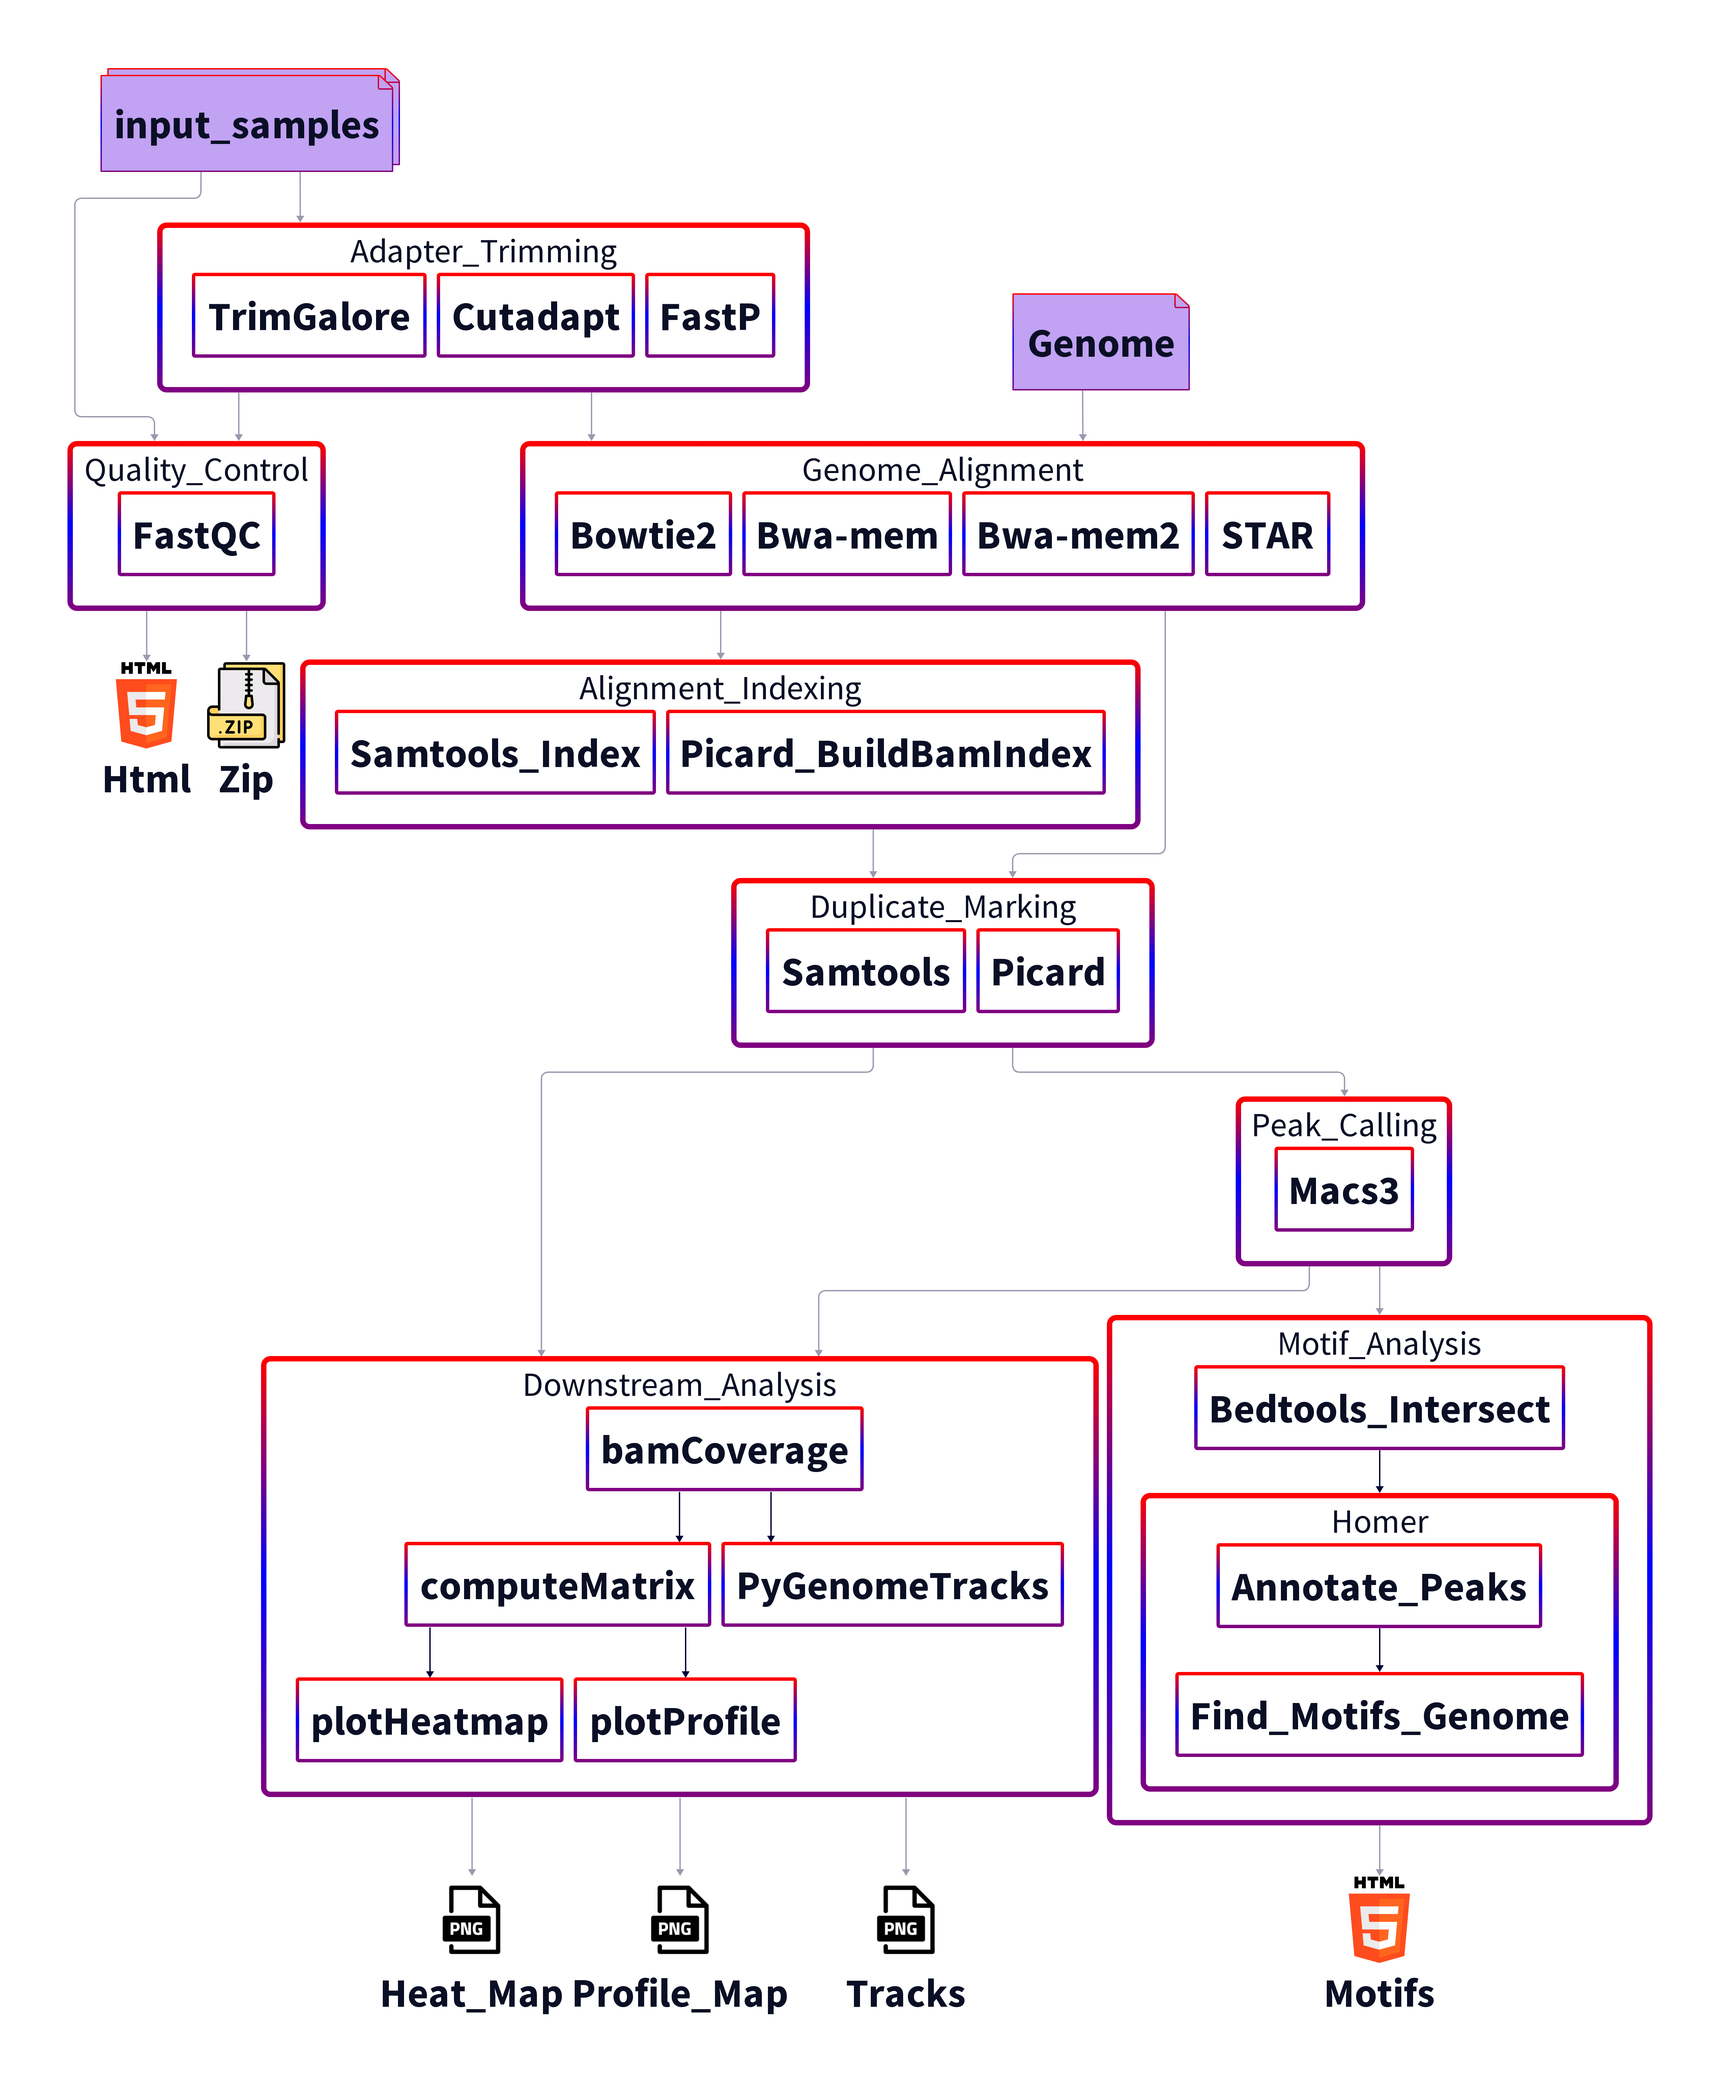
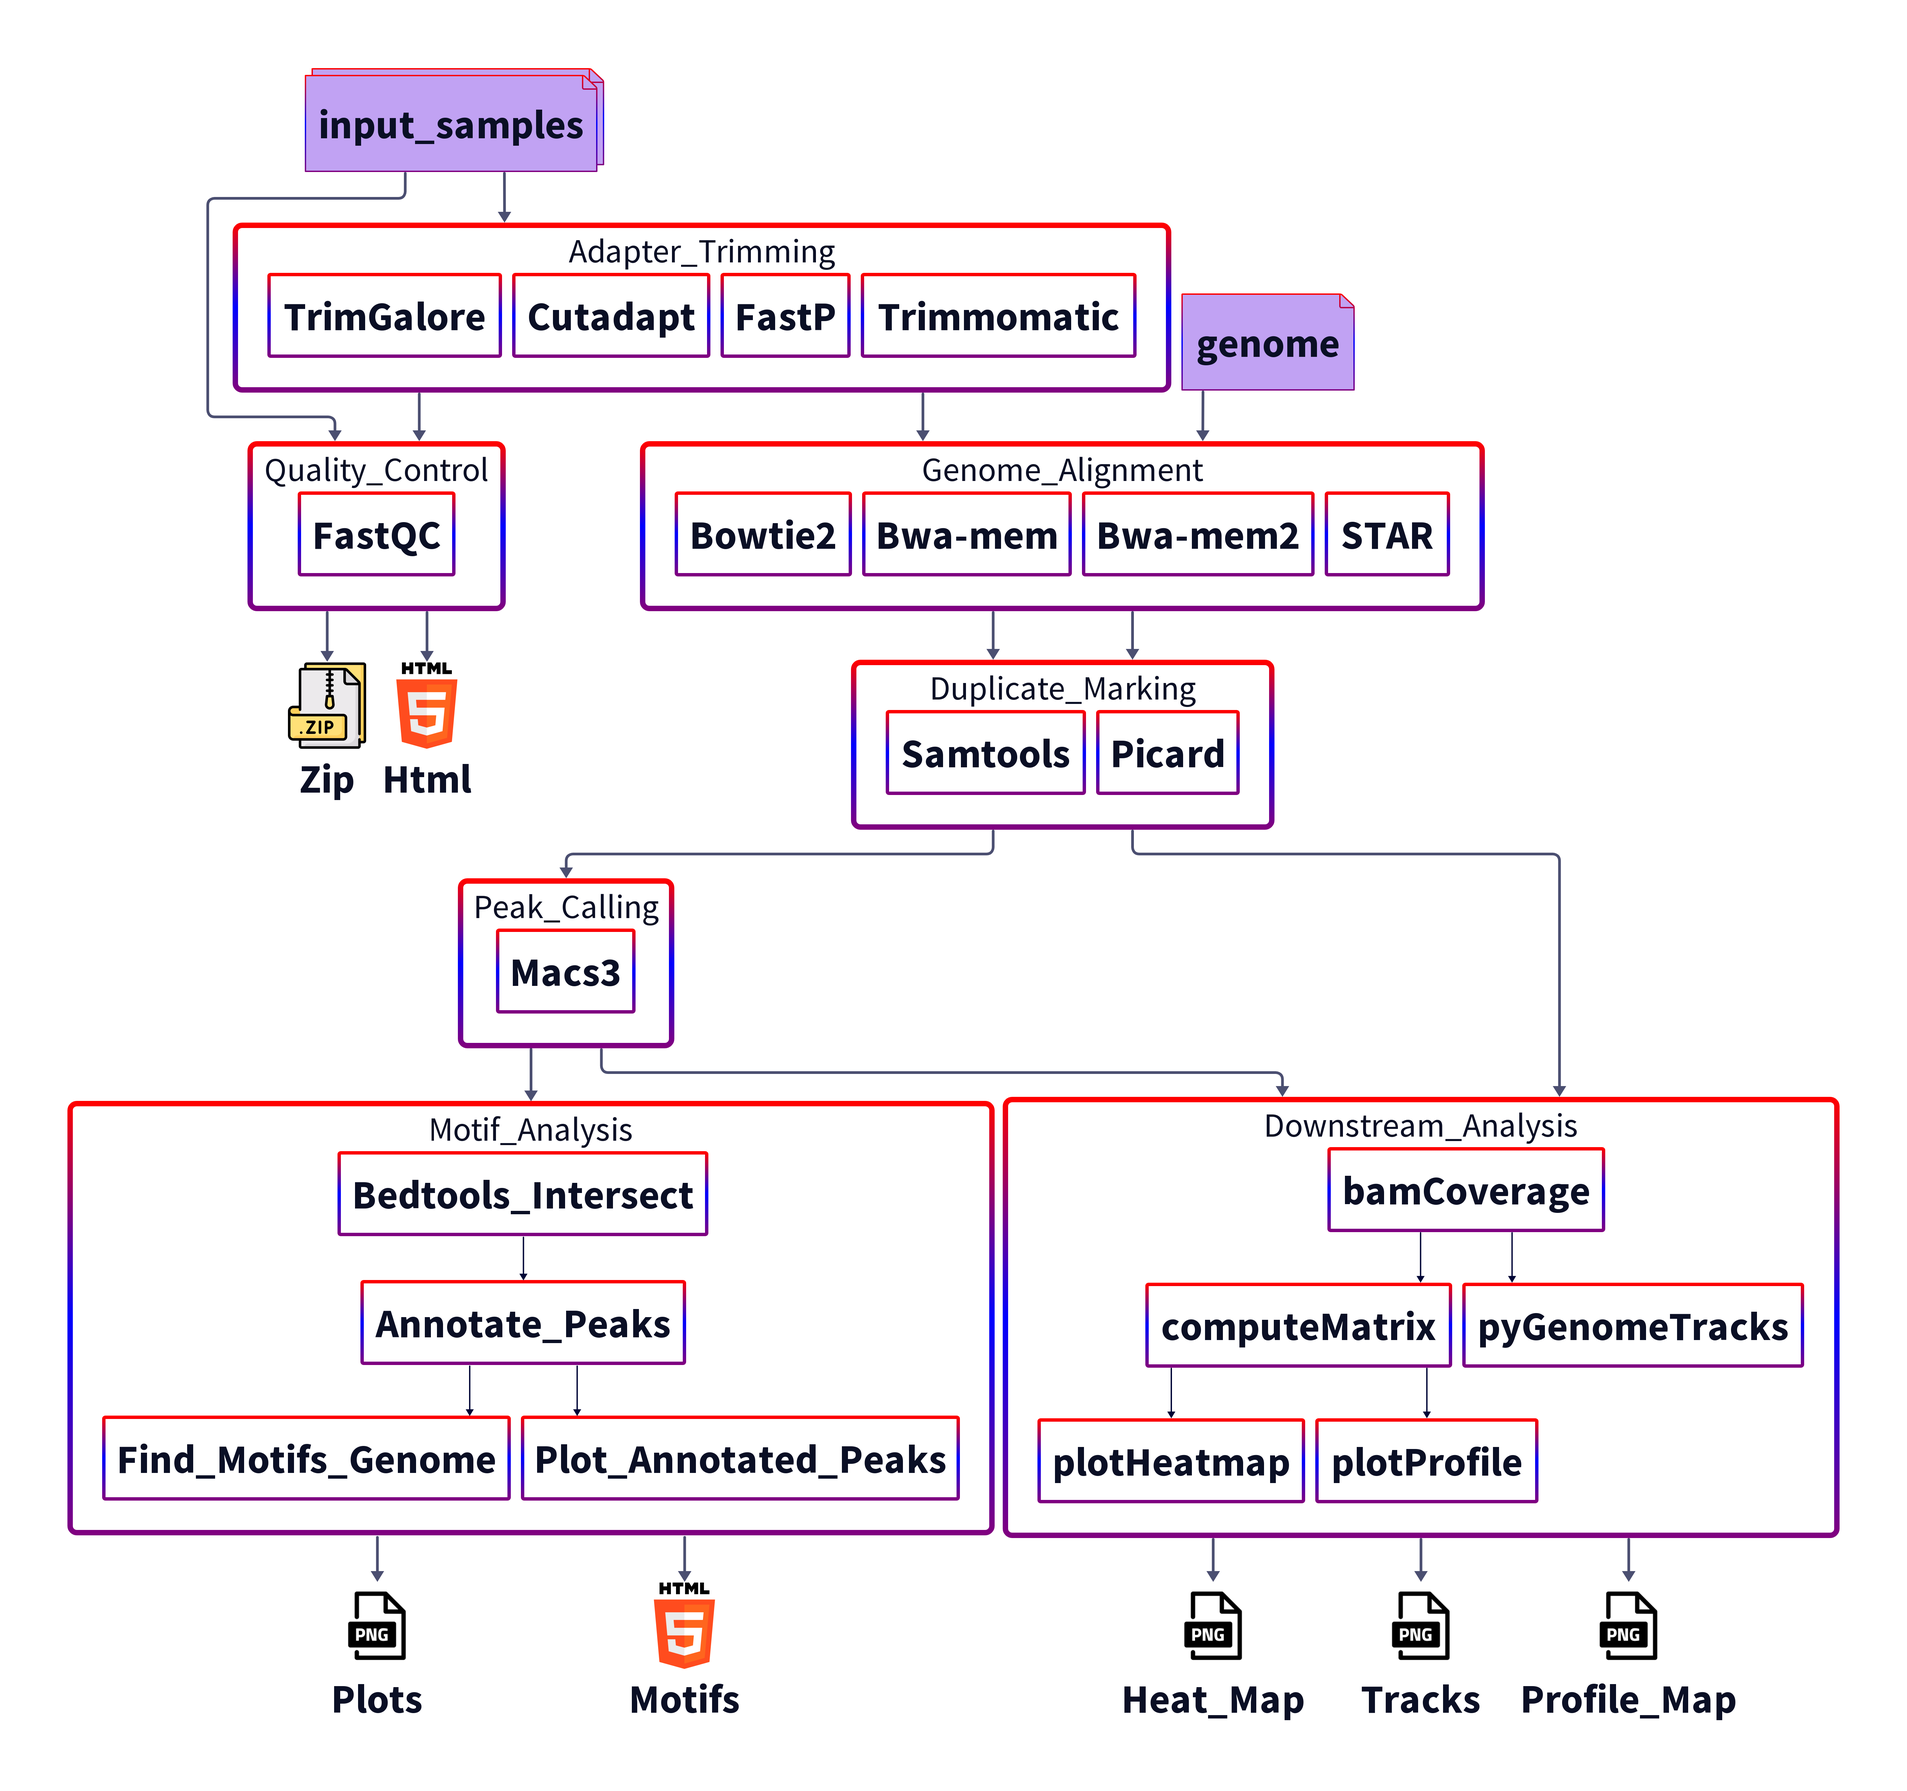
Updated docs

Changed region(s): [[0.0312, 0.4661, 0.9665, 0.9633], [0.0312, 0.0311, 0.8106, 0.5282], [0.4988, 0.9011, 0.5612, 0.9633]]

diff --git a/README.md b/README.md
@@ -2,28 +2,29 @@
 
 Snakemake reproducible and extensible chromatin immunoprecipitation sequencing data analysis pipeline.
 
-<img alt="pipeline flowchart" src="docs/images/flow.png" width="450" height="550">
+<img alt="pipeline flowchart" src="docs/images/flow.png" width="550" height="550">
 
 
 # Usage
 
+The recommended method to run the pipeline is with Conda. 
+
+Alternatively, it possible to run the pipeline using Apptainer/Singularity containers.
+
+
 ## Conda
 
-Installation of conda and snakemake is required to run the pipeline. 
-
-Install conda by following the instructions provided by the official conda [documentation](https://docs.conda.io/projects/conda/en/stable/user-guide/install/index.html)
+Install conda by following the instructions provided by the official conda [documentation](https://docs.conda.io/projects/conda/en/stable/user-guide/install/index.html).
 
 Then install the environment by running:
 
-`conda evn create --file environment.yml -p <path>`
+`conda evn create --file environment.yml`
 
-or: 
-
-`conda evn create --file environment.yml -n pipeline`
-
-Activate the environment and start using the pipeline by running inside the git repository:
+Activate the environment and start using the pipeline:
 
 `snakemake -c <num_cores> -C <config_options>`
+
+For documentation of config_options, please refer to the [docs](docs/conf.md)
 
 ## Apptainer/Singularity
 
@@ -37,11 +38,11 @@ Snakemake together conda is available for use in the container.
 
 Run the pipeline by running the following commands inside the git repository:
 
-`./container.sif -c <num_cores> -j <num_jobs> -C <config_options>`
+`./container.sif -c <num_cores> -C <config_options>`
 
-or more explicitly
+or more explicitly:
 
-`apptainer exec container.sif snakemake -c <num_cores> -j <num_jobs> -C <config_options>`
+`apptainer exec container.sif snakemake -c <num_cores> -C <config_options>`
 
 N.B. remember to bind the working directory if it is outside the home directory.
 
@@ -52,89 +53,29 @@ If conda is available on your HPC create the environment and run:
 
 `snakemake --jobs <num> --profile profiles/slurm`
 
-If conda is not available use containers.
+If conda is not available, use containers.
 
 Pull the container from Dockerhub using Apptainer/Singularity.
 
-Because compute nodes can have limited access to the internet, provide the samples and genome as local files.
-
 Install conda packages before submitting jobs to compute nodes by running:
 
-`apptainer exec <container_name> snakemake --use-conda --conda-create-envs-only`
+`apptainer exec <container_name> snakemake --conda-create-envs-only`
 
 Then you can submit the pipeline to the workload manager, e.g. using Slurm
 
 `srun --nodes <num_nodes>... apptainer run <container_name> ...`
 
-## Specify samples 
+Or edit and submit the provided Slurm [script](slurm.sh):
 
-
-<table>
-    <th>Column</th>
-    <th>Description</th>
-    <th>Required</th>
-    <th>Valid Values</th>
-    <tr>
-        <td>Mark</td>
-        <td>Identifier for transcription factor or histone mark for treatment file.</td>
-        <td>Yes, only for treatment samples. Leave blank for control samples.</td>
-        <td>String</td>
-    </tr>
-    <tr>
-        <td>Sample</td>
-        <td>The biological sample or condition the sequences were derived from.</td>
-        <td>Yes, used for associating samples with corresponding sample origin.</td>
-        <td>String</td>
-    </tr>
-    <tr>
-        <td>Type</td>
-        <td>Specifies whether the sample is treatment or control.</td> 
-        <td>Yes</td>
-        <td>treatment/control</td>
-    </tr>
-    <tr>
-        <td>Peak_type</td>
-        <td>Must be narrow/broad, decides if the peak caller will treat the sample as narrow or broad peaks.</td>
-        <td>Yes, for treatment files. Can be omitted for control files.</td>
-        <td>narrow/broad</td>
-    </tr>
-    <tr>
-        <td>Accession</td>
-        <td>GEO accession number for publicly available samples, used to download the sample from GEO if a local file path is not specified. If file_path is specified, this column serves as a prefix for the filename.</td>
-        <td>Yes; if file_path is not defined.</td>
-        <td>String</td>
-    </tr>    
-    <tr>
-        <td>Genome</td>
-        <td>The genome that the sample will the aligned to. Samples will also be separated by the genome they are aligned to.</td>
-        <td>Yes</td>
-        <td>Genome identifier or path to a FASTA or gzipped FASTA file named after the identifier. Example; hg19 or path/to/genome/hg19.fa.gz</td>
-    </tr>
-    <tr>
-        <td>File_path</td>
-        <td>Paths to the reads sample reads. If paired_end is set to true, then two paths must be defined in the column by separating them with ";" character. Files without file_path specified will try </td>
-        <td>No, if not specified the pipeline will try to download the sample based on the GEO accession.</td>
-        <td>If paired_end is false; path/to/read.fq.gz. If paired_end is true: path/to/read1.fq.gz;path/to/read2.fq.gz </td>
-    </tr>
-        
-
-</table>
-
+`sbatch slurm.sh`
 
 ## Editing Config 
 
 Refer to the [configuration documentaion](docs/conf.md).
 
-## Module Options
+### Preparing Sample Data
 
-Overwrite the default configuration by running:
+Before running the pipeline, the sample sheet needs be prepared, which defines the input data. 
 
-`snakemake -c <num> <rule> --config modules="--flag1 <value1> -f <value2>"`
-
-## Flags
-
-**-t** or **--trim** overwrites the trimmer
-
-**-a** or **--align** overwrites the aligner
-
+For editing the sample sheet refer to the [sample sheet docs](docs/sample_sheet.md).
 

diff --git a/docs/sample_sheet.md b/docs/sample_sheet.md
@@ -1,0 +1,71 @@
+
+# Specify samples 
+
+The pipeline requires a sample sheet (defaulting to config/samples.csv) to define the input data and metadata for each sample. This file should be in CSV format and include specific columns as detailed below.
+
+<table>
+    <th>Column</th>
+    <th>Description</th>
+    <th>Required</th>
+    <th>Valid Values</th>
+    <tr>
+        <td>Mark</td>
+        <td>Identifier for transcription factor or histone mark for treatment file.</td>
+        <td>Yes, only for treatment samples. Leave blank for control samples.</td>
+        <td>String</td>
+    </tr>
+    <tr>
+        <td>Sample</td>
+        <td>The biological sample or condition the sequences were derived from.</td>
+        <td>Yes, used for associating samples with corresponding sample origin.</td>
+        <td>String</td>
+    </tr>
+    <tr>
+        <td>Type</td>
+        <td>Specifies whether the sample is treatment or control.</td> 
+        <td>Yes</td>
+        <td>treatment/control</td>
+    </tr>
+    <tr>
+        <td>Peak_type</td>
+        <td>Must be narrow/broad, decides if the peak caller will treat the sample as narrow or broad peaks.</td>
+        <td>Yes, for treatment files. Can be omitted for control files.</td>
+        <td>narrow/broad</td>
+    </tr>
+    <tr>
+        <td>Accession</td>
+        <td>GEO accession number for publicly available samples, used to download the sample from GEO if a local file path is not specified. If file_path is specified, this column serves as a prefix for the filename.</td>
+        <td>Yes; if file_path is not defined.</td>
+        <td>String</td>
+    </tr>    
+    <tr>
+        <td>Genome</td>
+        <td>The genome that the sample will the aligned to. Samples will also be separated by the genome they are aligned to.</td>
+        <td>Yes</td>
+        <td>Genome identifier or path to a FASTA or gzipped FASTA file named after the identifier. Example; hg19 or path/to/genome/hg19.fa.gz</td>
+    </tr>
+    <tr>
+        <td>File_path</td>
+        <td>Paths to the reads sample reads. If paired_end is set to true, then two paths must be defined in the column by separating them with ";" character. Files without file_path specified will try </td>
+        <td>No, if not specified the pipeline will try to download the sample based on the GEO accession.</td>
+        <td>If paired_end is false; path/to/read.fq.gz. If paired_end is true: path/to/read1.fq.gz;path/to/read2.fq.gz </td>
+    </tr>
+        
+</table>
+
+
+## Example sheet
+
+An example sheet showing the possibilities:
+
+```csv
+type,peak_type,replicate,accession,file_path,genome,mark,sample,paired_end
+treatment,narrow,1,GSM1234567,,genomes/hg19.fa,H3K4me3,CellLineA,True
+treatment,narrow,2,GSM1234568,,genomes/hg19.fa,H3K4me3,CellLineA,True
+control,,,1,GSM1234569,,genomes/hg19.fa,IgG,CellLineA,True
+control,,,2,GSM1234570,,genomes/hg19.fa,IgG,CellLineA,True
+treatment,broad,1,,data/sample1_R1.fastq.gz;data/sample1_R2.fastq.gz,genomes/mm10.fa,H3K36me3,TissueX,True
+treatment,broad,2,,data/sample2_R1.fastq.gz;data/sample2_R2.fastq.gz,genomes/mm10.fa,H3K36me3,TissueX,True
+control,,,1,,data/control1.fastq.gz,genomes/mm10.fa.gz,Input,TissueX,False
+control,,,2,,data/control2.fastq.gz,genomes/mm10.fa.gz,Input,TissueX,False
+treatment,narrow,1,GSM9876543,,dm6,H3K27me3,FlySampleY,False

diff --git a/docs/conf.md b/docs/conf.md
@@ -34,6 +34,21 @@ Or by editing the [configuration file](../config/config.yml) directly
 
 **args**: extra options that will be passed to the tools.
 
+## Module Options
 
+Overwrite the default configuration by running:
 
+`snakemake -c <num> <rule> --config modules="--flag1 <value1> -f <value2>"`
+
+Example:
+
+`snakemake -c <num> <rule> --config modules="-t trimmomatic -a bwa_mem2"`
+
+## Flags
+
+**-t** or **--trim** overwrites the trimmer
+
+**-a** or **--align** overwrites the aligner
+
+**-d** or **--duplicate_processor** overwrites the duplicate processor
 
